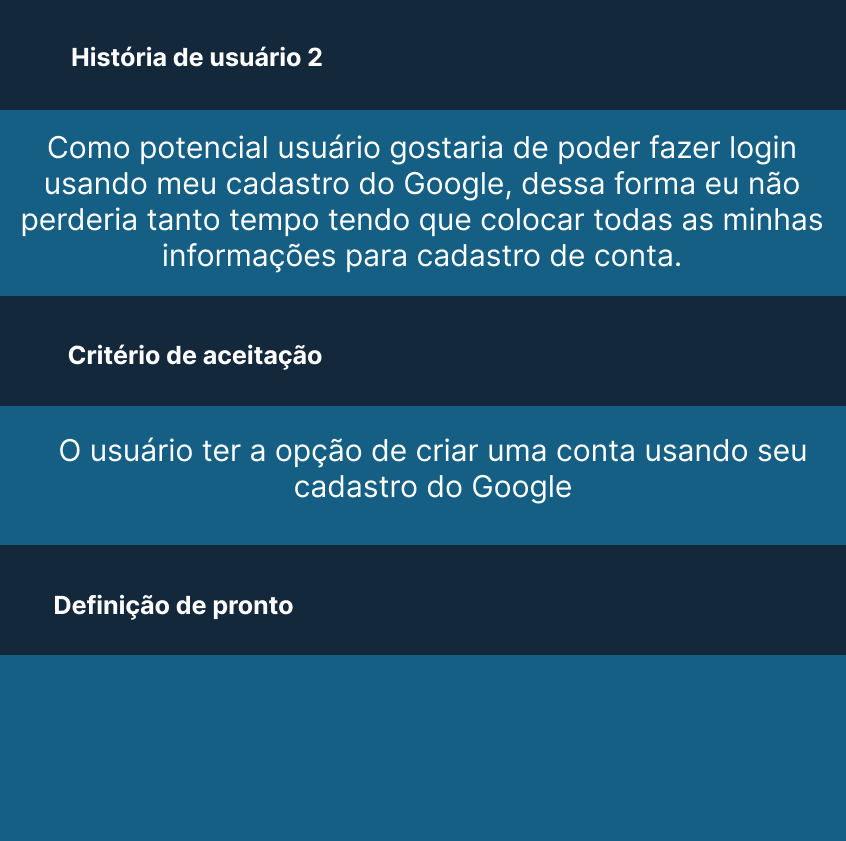
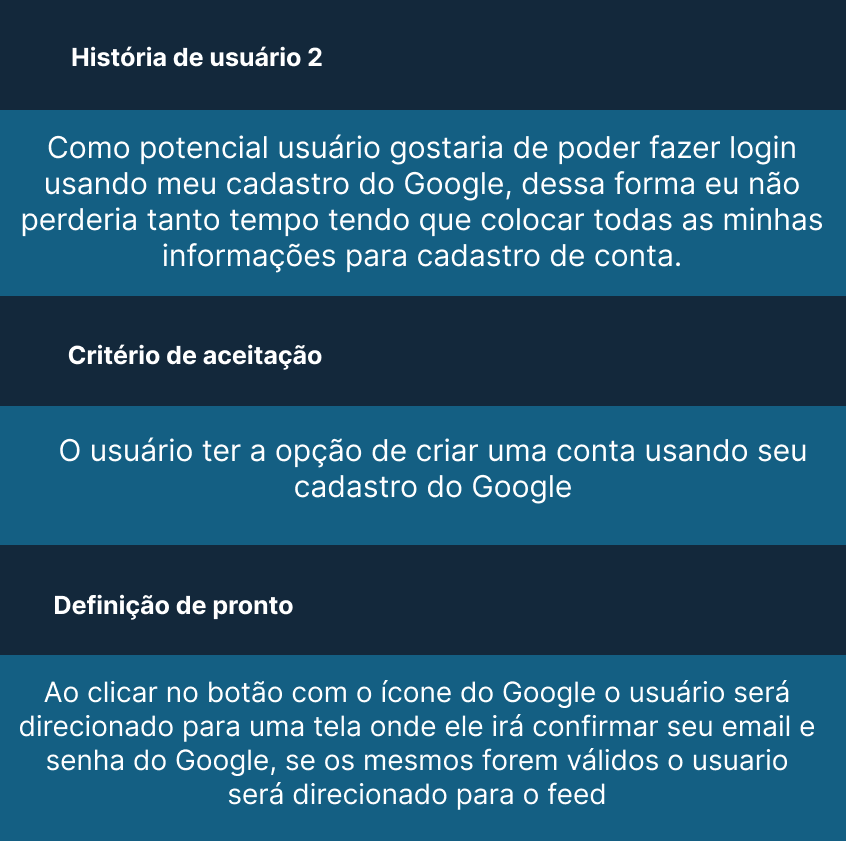
readme

Changed region(s): [[0.0307, 0.8038, 0.9527, 0.9584]]

diff --git a/README.md b/README.md
@@ -13,30 +13,340 @@ Há redes sociais de todo tipo para todos os tipos de interesse.
 
 ***
 
-## Prototipos do projeto
-### Protótipos Desktop 
-  <img width= "900px" src= "./src/img/Group 8.png">
+### 5.3 Histórias de usuário
 
+Depois de entender as necessidades dos nossos usuários, escrevemos as Histórias de
+Usuário. Elas representam tudo o que ele precisa fazer/ver na Rede Social.
+Cada uma de suas histórias de usuário possui:
 
-### Protótipos Mobile
-**Telas de login e cadastro
-<img width= "500px" src= "./src/img/Group 10.png">
+* **Critérios de aceitação:** tudo o que deve acontecer para satisfazer as
+  necessidades do usuário.
 
-**Telas de feed e sobre
-<img width= "500px" src= "./src/img/Group 11.png">
+* **Definição de pronto:** todos os aspectos técnicos que devem ser atendidos
+  para que, como equipe, saibam que essa história está finalizada e pronta para
+  ser publicada. **Todas** suas histórias de usuário (com exceções), devem
+  incluir esses aspectos em sua definição de pronto (além de tudo o que precisa
+  adicionar):
 
-### História de usuário                                                                                                                                                                                                                                                                                          ### História 1                                                                                                                      
-<img width= "900px" src= "./src/img/História1.png">
+  - Ser uma SPA.
+  - Ser _responsivo_.
+  - Receber _code review_ de pelo menos uma parceira de outra equipe.
+  - Fazer _tests_ unitários.
+  - Fazer testes manuais buscando erros e imperfeições simples.
+  - Fazer testes de usabilidade e incorporar o _feedback_ dos usuários como
+    melhorias.
+  - Fazer deploy do aplicativo e marcar a versão (git tag).
+
+### História 1
+<img width= "500px" src= "./src/img/História1.png">
 
 ### História 2
-<img width= "900px" src= "./src/img/História2.png">
+<img width= "500px" src= "./src/img/História2.png">
 
 ### História 3    
-<img width= "900px" src= "./src/img/História3.png">
+<img width= "500px" src= "./src/img/História3.png">
 
 ### História 4    
 <img width= "900px" src= "./src/img/História4.png">
 
 ### História 5    
-<img width= "900px" src= "./src/img/História5.png">
+<img width= "500px" src= "./src/img/História5.png">
 
+
+### Protótipos Desktop 
+
+#### Telas de login e cadastro
+* _Login_ com Firebase:
+  - Para o _login_ e postagens na timeline, você pode usar o
+    [Firebase](https://firebase.google.com/products/database/)
+  - O usuário deve poder criar uma conta de acesso ou autenticar-se com conta de
+    e-mail e senha e também com uma conta do Google.
+* Validações:
+  - Somente usuários com contas válidas têm acesso permitido.
+  - Não haver usuários repetidos.
+  - O que o usuário digita no campo de senha (_input_) deve ser secreto.
+* Comportamento:
+  - Quando o formulário de registro ou login é enviado, ele deve ser validado.
+  - Se houver erros, mensagens descritivas devem ser exibidas para ajudar o
+    usuário.
+
+  <img width= "900px" src= "./src/img/Group 8.png">
+
+#### Timeline/linha do tempo e sobre
+
+* Validações:
+  - Ao publicar, deve ser validado se há conteúdo no _input_.
+* Comportamento:
+  - Ao recarregar o aplicativo, é necessário verificar se o usuário está
+    _logado_ antes de exibir o conteúdo,
+  - Conseguir publicar um _post_.
+  - Poder dar e remover _likes_ em uma publicação. Máximo de um por usuário.
+  - Visualizar contagem de _likes_.
+  - Poder excluir uma postagem específica.
+  - Solicitar confirmação antes de excluir um _post_.
+  - Ao clicar em editar um _post_, você deve alterar o texto para um _input_ que
+    permite editar o texto e salvar as alterações.
+  - Ao salvar as alterações, você deve voltar ao texto normal, mas com a
+    informação editada.
+  - Ao recarregar a página, poder ver os textos editados.
+
+
+### Protótipos Mobile
+
+#### Telas de login e cadastro
+<img width= "500px" src= "./src/img/Group 10.png">
+
+#### Telas de feed e sobre
+<img width= "500px" src= "./src/img/Group 11.png">
+
+## Objetivos de aprendizagem
+
+### HTML
+
+- [ ] **Uso de HTML semântico**
+
+  <details><summary>Links</summary><p>
+
+  * [HTML semântico](https://curriculum.laboratoria.la/pt/topics/html/02-html5/02-semantic-html)
+  * [Semantics in HTML - MDN](https://developer.mozilla.org/en-US/docs/Glossary/Semantics#Semantics_in_HTML)
+</p></details>
+
+### CSS
+
+- [ ] **Uso de seletores de CSS**
+
+  <details><summary>Links</summary><p>
+
+  * [Intro a CSS](https://curriculum.laboratoria.la/pt/topics/css/01-css/01-intro-css)
+  * [CSS Selectors - MDN](https://developer.mozilla.org/pt_BR/docs/Web/CSS/CSS_Selectors)
+</p></details>
+
+- [ ] **Modelo de caixa (box model): borda, margem, preenchimento**
+
+  <details><summary>Links</summary><p>
+
+  * [Modelo de Caixa e Display](https://curriculum.laboratoria.la/pt/topics/css/01-css/02-boxmodel-and-display)
+  * [The box model - MDN](https://developer.mozilla.org/en-US/docs/Learn/CSS/Building_blocks/The_box_model)
+  * [Introduction to the CSS box model - MDN](https://developer.mozilla.org/en-US/docs/Web/CSS/CSS_Box_Model/Introduction_to_the_CSS_box_model)
+  * [CSS display - MDN](https://developer.mozilla.org/pt-BR/docs/Web/CSS/display)
+  * [display - CSS Tricks](https://css-tricks.com/almanac/properties/d/display/)
+</p></details>
+
+- [ ] **Uso de flexbox em CSS**
+
+  <details><summary>Links</summary><p>
+
+  * [A Complete Guide to Flexbox - CSS Tricks](https://css-tricks.com/snippets/css/a-guide-to-flexbox/)
+  * [Flexbox Froggy](https://flexboxfroggy.com/#pt-br)
+  * [Flexbox - MDN](https://developer.mozilla.org/en-US/docs/Learn/CSS/CSS_layout/Flexbox)
+</p></details>
+
+- [ ] **Uso de CSS Grid Layout**
+
+  <details><summary>Links</summary><p>
+
+  * [A Complete Guide to Grid - CSS Tricks](https://css-tricks.com/snippets/css/complete-guide-grid/)
+  * [Grids - MDN](https://developer.mozilla.org/en-US/docs/Learn/CSS/CSS_layout/Grids)
+</p></details>
+
+### Web APIs
+
+- [ ] **Uso de seletores de DOM**
+
+  <details><summary>Links</summary><p>
+
+  * [Modificando o DOM](https://curriculum.laboratoria.la/pt/topics/browser/02-dom/03-1-dom-methods-selection)
+  * [Introdução ao DOM - MDN](https://developer.mozilla.org/pt-BR/docs/Web/API/Document_Object_Model/Introduction)
+  * [Locating DOM elements using selectors - MDN](https://developer.mozilla.org/en-US/docs/Web/API/Document_object_model/Locating_DOM_elements_using_selectors)
+</p></details>
+
+- [ ] **Manipulação de eventos de DOM (listeners, propagação, delegação)**
+
+  <details><summary>Links</summary><p>
+
+  * [Introdução a eventos - MDN](https://developer.mozilla.org/pt-BR/docs/Learn/JavaScript/Building_blocks/Events)
+  * [EventTarget.addEventListener() - MDN](https://developer.mozilla.org/pt-BR/docs/Web/API/EventTarget/addEventListener)
+  * [EventTarget.removeEventListener() - MDN](https://developer.mozilla.org/pt-BR/docs/Web/API/EventTarget/removeEventListener)
+  * [Objeto Event](https://developer.mozilla.org/pt-BR/docs/Web/API/Event)
+</p></details>
+
+- [ ] **Manipulação dinâmica de DOM**
+
+  <details><summary>Links</summary><p>
+
+  * [Introdução ao DOM](https://developer.mozilla.org/pt-BR/docs/DOM/Referencia_do_DOM/Introdu%C3%A7%C3%A3o)
+  * [Node.appendChild() - MDN](https://developer.mozilla.org/pt-BR/docs/Web/API/Node/appendChild)
+  * [Document.createElement() - MDN](https://developer.mozilla.org/pt-BR/docs/Web/API/Document/createElement)
+  * [Document.createTextNode()](https://developer.mozilla.org/pt-BR/docs/Web/API/Document/createTextNode)
+  * [Element.innerHTML - MDN](https://developer.mozilla.org/pt-BR/docs/Web/API/Element/innerHTML)
+  * [Node.textContent - MDN](https://developer.mozilla.org/pt-BR/docs/Web/API/Node/textContent)
+</p></details>
+
+- [ ] **Routing (History API, evento hashchange, window.location)**
+
+  <details><summary>Links</summary><p>
+
+  * [Manipulando o histórico do navegador - MDN](https://developer.mozilla.org/pt-BR/docs/Web/API/History_API)
+</p></details>
+
+### JavaScript
+
+- [ ] **Arrays (arranjos)**
+
+  <details><summary>Links</summary><p>
+
+  * [Arranjos](https://curriculum.laboratoria.la/pt/topics/javascript/04-arrays)
+  * [Array - MDN](https://developer.mozilla.org//pt-BR/docs/Web/JavaScript/Reference/Global_Objects/Array/)
+  * [Array.prototype.sort() - MDN](https://developer.mozilla.org/pt-BR/docs/Web/JavaScript/Reference/Global_Objects/Array/sort)
+  * [Array.prototype.forEach() - MDN](https://developer.mozilla.org/pt-BR/docs/Web/JavaScript/Reference/Global_Objects/Array/forEach)
+  * [Array.prototype.map() - MDN](https://developer.mozilla.org/pt-BR/docs/Web/JavaScript/Reference/Global_Objects/Array/map)
+  * [Array.prototype.filter() - MDN](https://developer.mozilla.org/pt-BR/docs/Web/JavaScript/Reference/Global_Objects/Array/filter)
+  * [Array.prototype.reduce() - MDN](https://developer.mozilla.org/pt-BR/docs/Web/JavaScript/Reference/Global_Objects/Array/Reduce)
+</p></details>
+
+- [ ] **Objetos (key, value)**
+
+  <details><summary>Links</summary><p>
+
+  * [Objetos em JavaScript](https://curriculum.laboratoria.la/pt/topics/javascript/05-objects/01-objects)
+</p></details>
+
+- [ ] **Diferenciar entre tipos de dados primitivos e não primitivos**
+
+- [ ] **Variáveis (declaração, atribuição, escopo)**
+
+  <details><summary>Links</summary><p>
+
+  * [Valores, tipos de dados e operadores](https://curriculum.laboratoria.la/pt/topics/javascript/01-basics/01-values-variables-and-types)
+  * [Variáveis](https://curriculum.laboratoria.la/pt/topics/javascript/01-basics/02-variables)
+</p></details>
+
+- [ ] **Uso de condicionais (if-else, switch, operador ternário, lógica booleana)**
+
+  <details><summary>Links</summary><p>
+
+  * [Estruturas condicionais e repetitivas](https://curriculum.laboratoria.la/pt/topics/javascript/02-flow-control/01-conditionals-and-loops)
+  * [Tomando decisões no seu código — condicionais - MDN](https://developer.mozilla.org/pt-BR/docs/Learn/JavaScript/Building_blocks/conditionals)
+</p></details>
+
+- [ ] **Uso de laços (while, for, for..of)**
+
+  <details><summary>Links</summary><p>
+
+  * [Laços (Loops)](https://curriculum.laboratoria.la/pt/topics/javascript/02-flow-control/02-loops)
+  * [Laços e iterações - MDN](https://developer.mozilla.org/pt-BR/docs/Web/JavaScript/Guide/Loops_and_iteration)
+</p></details>
+
+- [ ] **Funções (params, args, return)**
+
+  <details><summary>Links</summary><p>
+
+  * [Funções (controle de fluxo)](https://curriculum.laboratoria.la/pt/topics/javascript/02-flow-control/03-functions)
+  * [Funções clássicas](https://curriculum.laboratoria.la/pt/topics/javascript/03-functions/01-classic)
+  * [Arrow Functions](https://curriculum.laboratoria.la/pt/topics/javascript/03-functions/02-arrow)
+  * [Funções — blocos reutilizáveis de código - MDN](https://developer.mozilla.org/pt-BR/docs/Learn/JavaScript/Building_blocks/Functions)
+</p></details>
+
+- [ ] **Testes unitários (unit tests)**
+
+  <details><summary>Links</summary><p>
+
+  * [Introdução ao Jest - Documentação oficial](https://jestjs.io/docs/pt-BR/getting-started)
+</p></details>
+
+- [ ] **Testes assíncronos**
+
+  <details><summary>Links</summary><p>
+
+  * [Testando Código Assíncrono - Documentação oficial](https://jestjs.io/docs/pt-BR/asynchronous)
+</p></details>
+
+- [ ] **Uso de mocks e espiões**
+
+  <details><summary>Links</summary><p>
+
+  * [Simulações Manuais - Documentação oficial](https://jestjs.io/docs/pt-BR/manual-mocks)
+</p></details>
+
+- [ ] **Módulos de ECMAScript (ES modules)**
+
+  <details><summary>Links</summary><p>
+
+  * [import - MDN](https://developer.mozilla.org/pt-BR/docs/Web/JavaScript/Reference/Statements/import)
+  * [export - MDN](https://developer.mozilla.org/pt-BR/docs/Web/JavaScript/Reference/Statements/export)
+</p></details>
+
+- [ ] **Uso de linter (ESLINT)**
+
+- [ ] **Uso de identificadores descritivos (Nomenclatura e Semântica)**
+
+- [ ] **Diferença entre expressões (expressions) e declarações (statements)**
+
+- [ ] **Callbacks**
+
+  <details><summary>Links</summary><p>
+
+  * [Função Callback - MDN](https://developer.mozilla.org/pt-BR/docs/Glossario/Callback_function)
+</p></details>
+
+- [ ] **Promessas**
+
+  <details><summary>Links</summary><p>
+
+  * [Promise - MDN](https://developer.mozilla.org/es/docs/Web/JavaScript/Reference/Global_Objects/Promise)
+  * [How to Write a JavaScript Promise - freecodecamp (em inglês)](https://www.freecodecamp.org/news/how-to-write-a-javascript-promise-4ed8d44292b8/)
+</p></details>
+
+### Controle de Versões (Git e GitHub)
+
+- [ ] **Git: Instalação e configuração**
+
+- [ ] **Git: Controle de versão com git (init, clone, add, commit, status, push, pull, remote)**
+
+- [ ] **Git: Integração de mudanças entre ramos (branch, checkout, fetch, merge, reset, rebase, tag)**
+
+- [ ] **GitHub: Criação de contas e repositórios, configuração de chave SSH**
+
+- [ ] **GitHub: Implantação com GitHub Pages**
+
+  <details><summary>Links</summary><p>
+
+  * [Site oficial do GitHub Pages](https://pages.github.com/)
+</p></details>
+
+- [ ] **GitHub: Colaboração pelo Github (branches | forks | pull requests | code review | tags)**
+
+- [ ] **GitHub: Organização pelo Github (projects | issues | labels | milestones | releases)**
+
+### Centrado no usuário
+
+- [ ] **Desenhar e desenvolver um produto ou serviço colocando as usuárias no centro**
+
+### Design de produto
+
+- [ ] **Criar protótipos para obter feedback e iterar**
+
+- [ ] **Aplicar os princípios de desenho visual (contraste, alinhamento, hierarquia)**
+
+### Pesquisa
+
+- [ ] **Planejar e executar testes de usabilidade**
+
+### Firebase
+
+- [ ] **Firebase Auth**
+
+  <details><summary>Links</summary><p>
+
+  * [Primeiros passos com o Firebase Authentication em sites - Documentação oficial](https://firebase.google.com/docs/auth/web/start?hl=pt-BR)
+  * [Gerenciar usuários no Firebase (onAuthStateChanged) - Documentação oficial](https://firebase.google.com/docs/auth/web/manage-users?hl=pt-BR)
+</p></details>
+
+- [ ] **Firestore**
+
+  <details><summary>Links</summary><p>
+
+  * [Firestore - Documentação oficial](https://firebase.google.com/docs/firestore?hl=pt-BR)
+  * [Regras de segurança do Firebase - Documentação oficial](https://firebase.google.com/docs/rules?hl=pt-BR)
+  * [Receber atualizações em tempo real com o Cloud Firestore - Documentação oficial](https://firebase.google.com/docs/firestore/query-data/listen?hl=pt-BR)
+</p></details>
